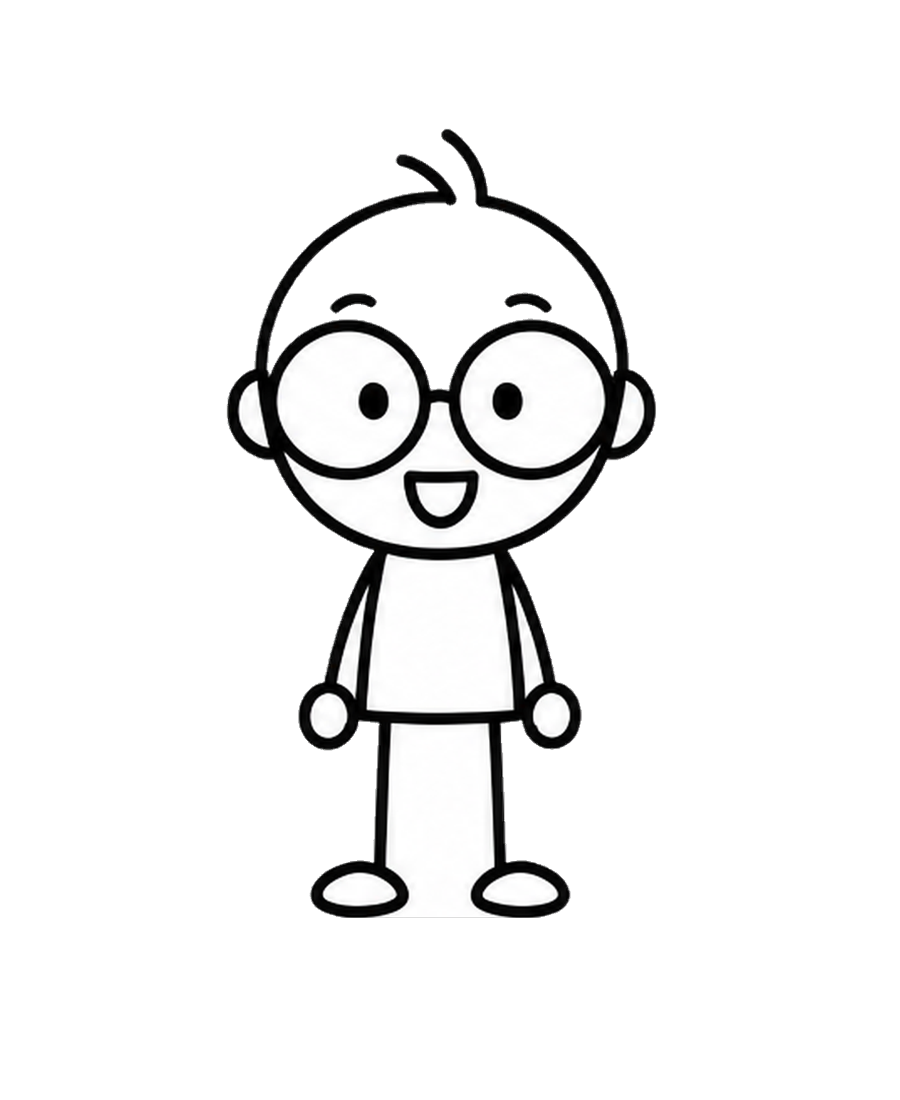
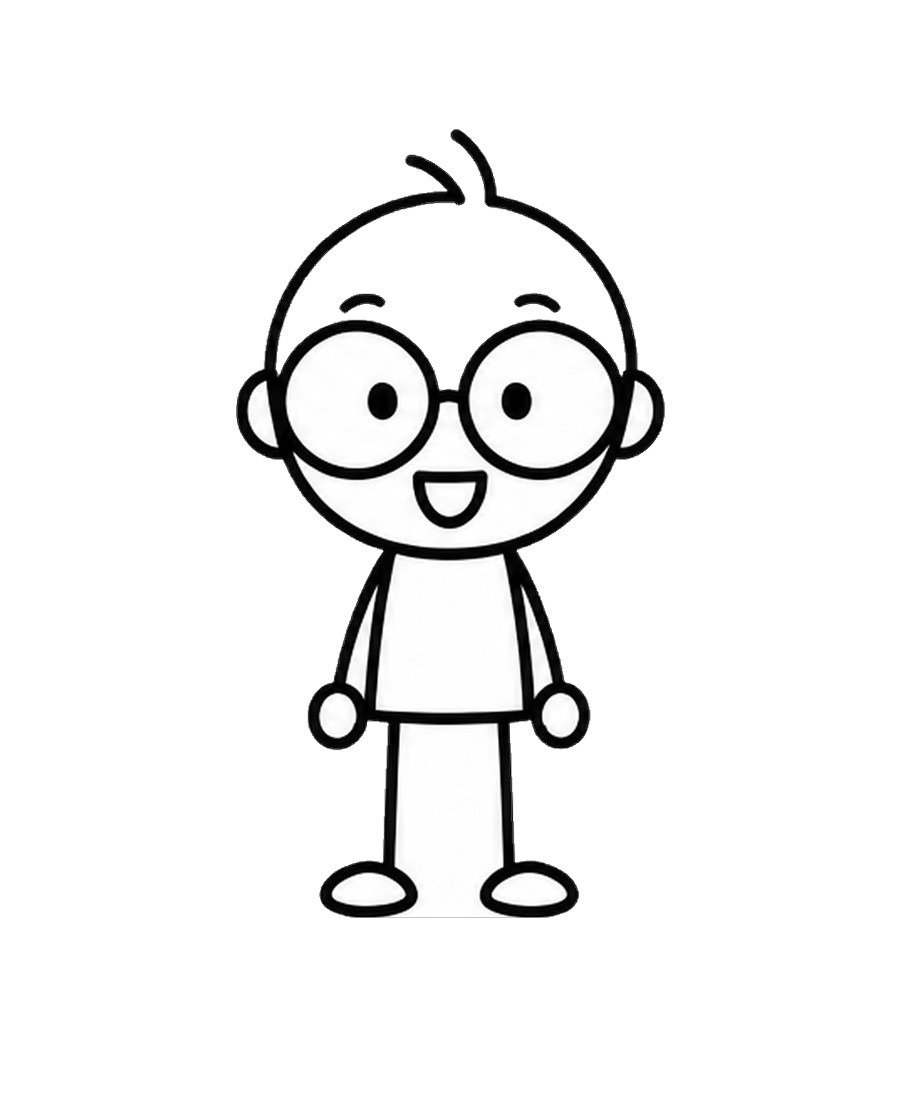
Center every face by ear midpoint so expressions don't jump and the mouth sits on the drawn mouth

Changed region(s): [[0.2489, 0.0927, 0.7467, 0.8345]]

diff --git a/video/scripts/align_by_eyes.py b/video/scripts/align_by_eyes.py
@@ -108,6 +108,26 @@ def main(root):
     for f in files:
         place(f, target / W[f], CX, EYE_Y)
 
+    # 가로 위치는 귀~귀 가운데로 (눈동자는 그림마다 보는 방향이 달라 머리가 좌우로 최대 57px 움찔했음 — 2026-10-24)
+    def ear_mid(f):
+        a = Image.open(f).convert("RGBA").getchannel("A")
+        best = None
+        for y in range(EYE_Y - 40, EYE_Y + 41, 4):
+            xs = [x for x in range(CX - 320, CX + 320) if a.getpixel((x, y)) > 145]
+            if xs and (best is None or xs[-1] - xs[0] > best[1] - best[0]):
+                best = (xs[0], xs[-1])
+        return (best[0] + best[1]) / 2
+
+    for f in files:
+        dx = round(CX - ear_mid(f))
+        for g in (f, f.replace(".png", ".fill.png")):
+            if not os.path.exists(g):
+                continue
+            img = Image.open(g).convert("RGBA")
+            can = Image.new("RGBA", img.size, (0, 0, 0, 0))
+            can.paste(img, (dx, 0), img)
+            can.save(g)
+
     rig = {}
     for f in files:
         a = Image.open(f).convert("RGBA").getchannel("A")
